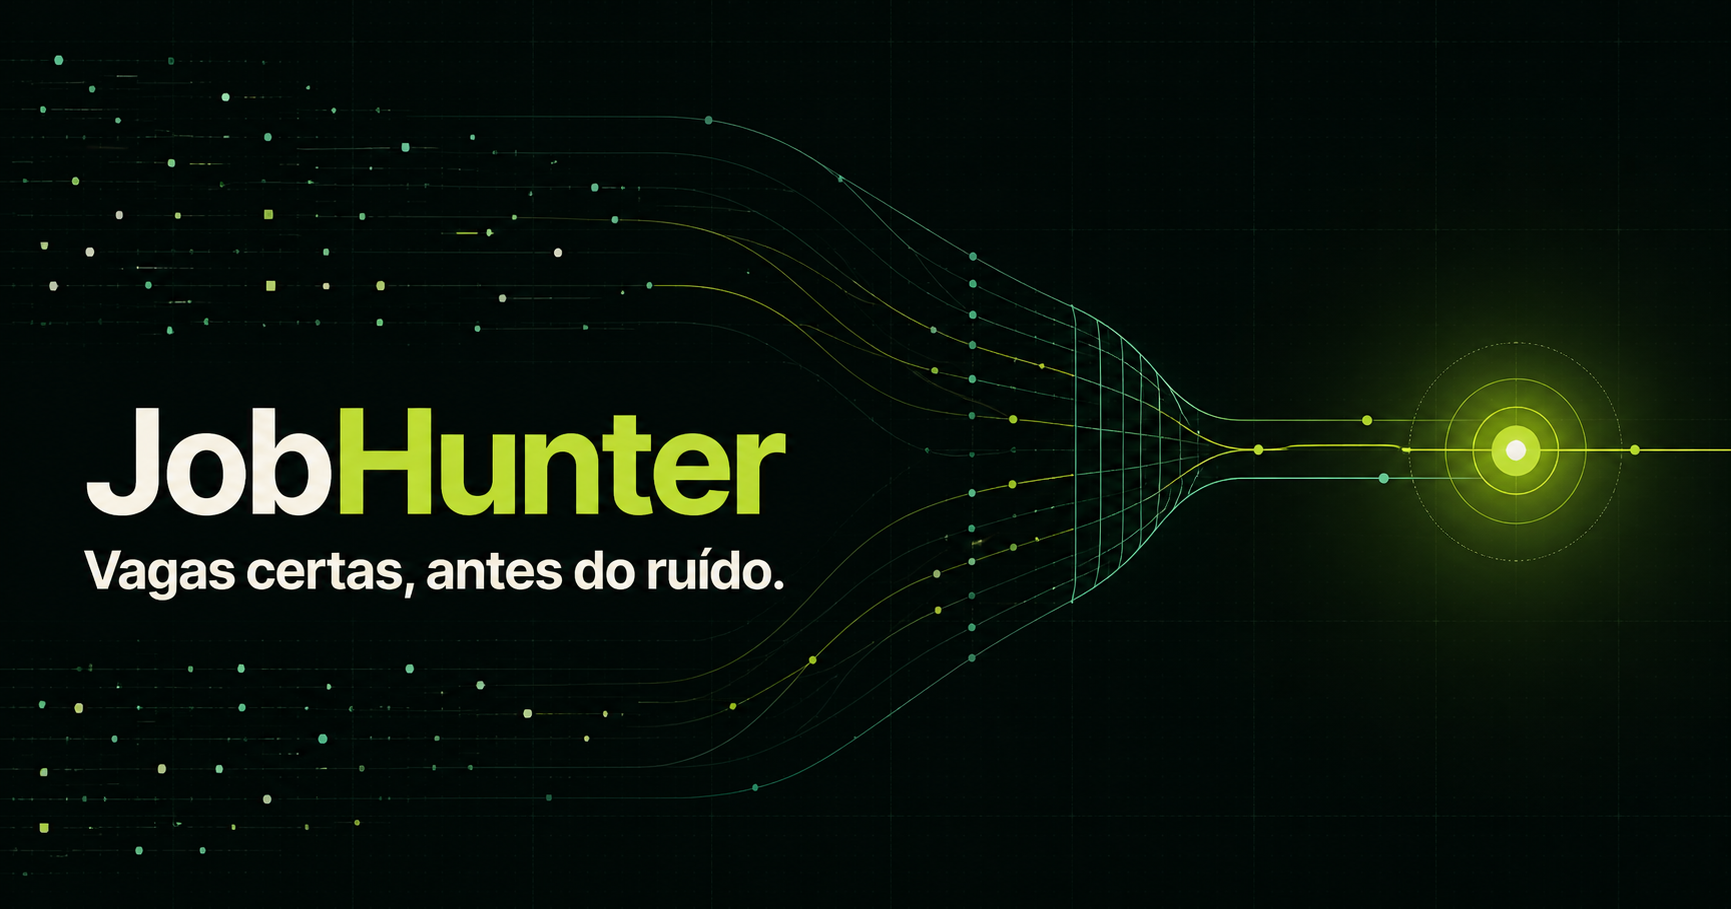
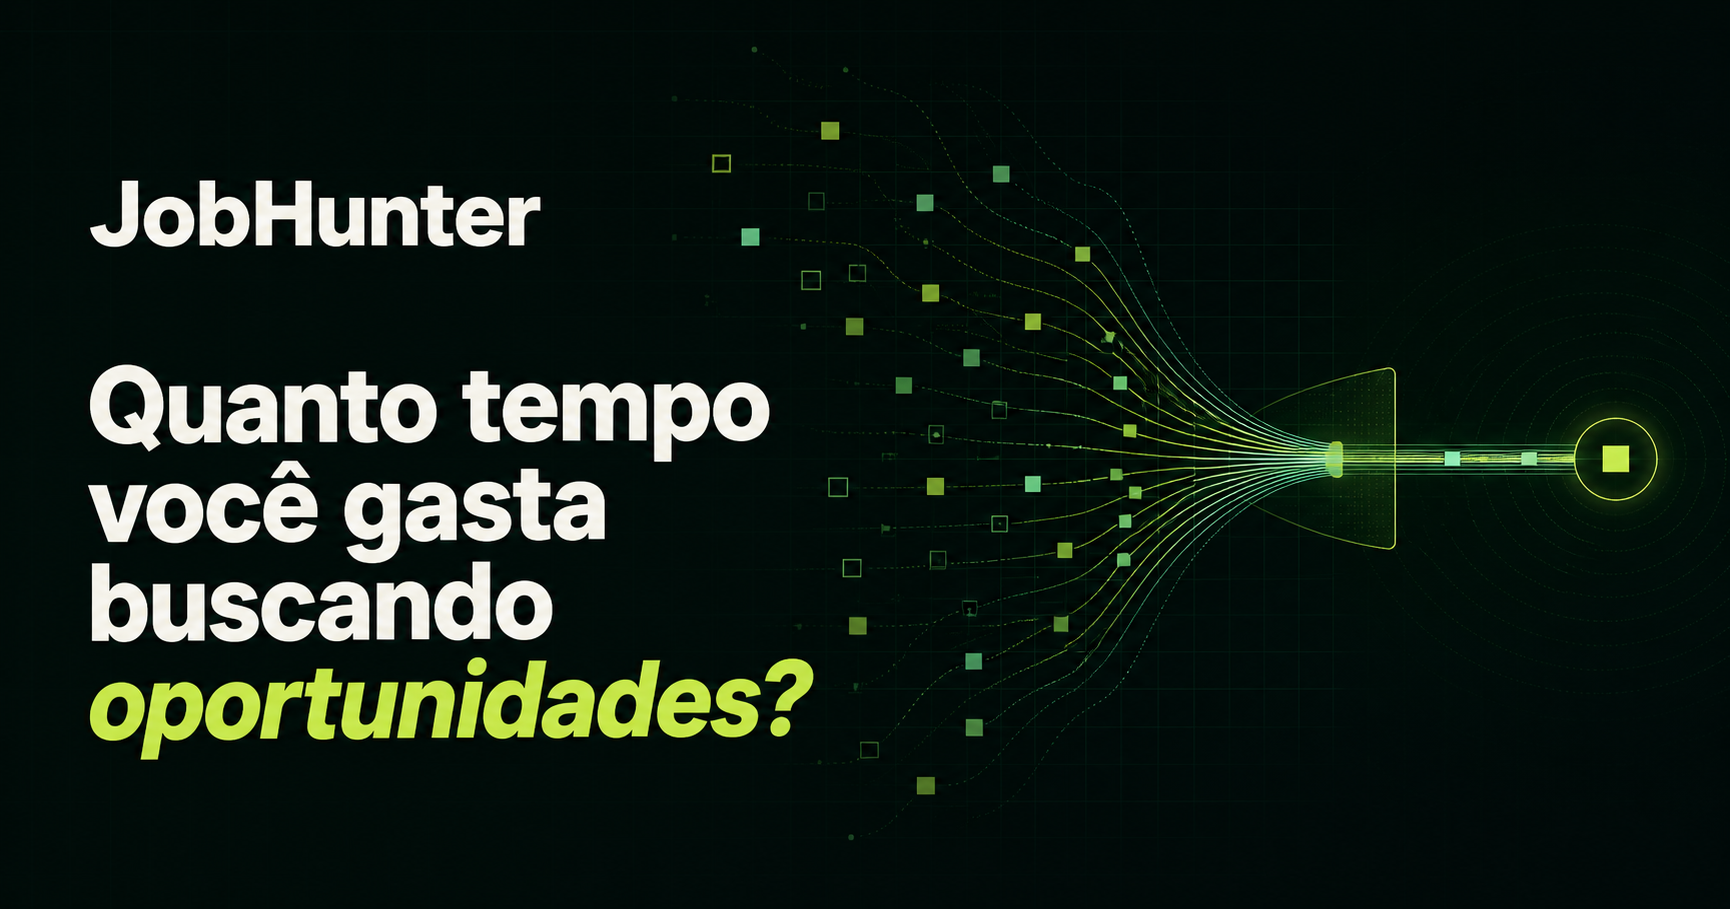
Reframe JobHunter metrics around efficiency

diff --git a/app/page.tsx b/app/page.tsx
@@ -1,11 +1,5 @@
 export default function Home() {
-  const sources = [
-    ["Lever", "249"],
-    ["Greenhouse", "105"],
-    ["Ashby", "78"],
-    ["Universidades", "10"],
-    ["Kaszek", "1"],
-  ];
+  const sources = ["Lever", "Greenhouse", "Ashby", "Universidades", "Kaszek"];
 
   const results = [
     {
@@ -48,11 +42,11 @@ export default function Home() {
 
       <section className="hero" id="top">
         <div className="hero-copy">
-          <div className="eyebrow"><span className="status-dot" /> Execução concluída · 09 ago 2026</div>
-          <h1>Menos ruído.<br /><span>Mais vagas certas.</span></h1>
+          <div className="eyebrow"><span className="status-dot" /> Busca inteligente de oportunidades</div>
+          <h1>Quanto tempo você gasta buscando <em>oportunidades</em>?</h1>
           <p className="hero-lead">
-            Um pipeline inteligente que encontra, limpa e prioriza oportunidades
-            de tecnologia — antes que você perca horas procurando.
+            O JobHunter transforma horas de pesquisa em um fluxo automático que
+            encontra, filtra e prioriza as vagas com maior aderência ao seu perfil.
           </p>
           <div className="hero-actions">
             <a className="button button-primary" href="#vagas">Explorar resultados <span>→</span></a>
@@ -61,32 +55,32 @@ export default function Home() {
           <p className="microcopy">Foco em estágio, júnior e início de carreira · São Paulo e remoto Brasil</p>
         </div>
 
-        <div className="signal-card" aria-label="Resumo da última execução">
+        <div className="signal-card" aria-label="Resumo de eficiência do pipeline">
           <div className="signal-header">
             <div>
-              <span className="overline">ÚLTIMA EXECUÇÃO</span>
-              <strong>Funil de oportunidades</strong>
+              <span className="overline">EFICIÊNCIA DO PIPELINE</span>
+              <strong>Menos esforço, mais relevância</strong>
             </div>
-            <span className="live-pill"><i /> 92,3s</span>
+            <span className="live-pill"><i /> AUTOMATIZADO</span>
           </div>
-          <div className="hero-number"><strong>443</strong><span>vagas coletadas</span></div>
-          <div className="funnel" aria-label="443 coletadas, 350 únicas, 25 aprovadas e 4 novas entregues">
-            <div className="funnel-row"><span>Coletadas</span><div><i style={{ width: "100%" }} /></div><b>443</b></div>
-            <div className="funnel-row"><span>Únicas</span><div><i style={{ width: "79%" }} /></div><b>350</b></div>
-            <div className="funnel-row"><span>Aprovadas</span><div><i style={{ width: "35%" }} /></div><b>25</b></div>
-            <div className="funnel-row highlight"><span>Novas entregues</span><div><i style={{ width: "20%" }} /></div><b>4</b></div>
+          <div className="hero-number"><strong>94,4%</strong><span>do ruído eliminado antes da IA</span></div>
+          <div className="funnel" aria-label="94,4% de pré-filtragem, 79% de vagas únicas, 64% de análises reaproveitadas e 100% de estabilidade">
+            <div className="funnel-row"><span>Pré-filtragem</span><div><i style={{ width: "94.4%" }} /></div><b>94,4%</b></div>
+            <div className="funnel-row"><span>Vagas únicas</span><div><i style={{ width: "79%" }} /></div><b>79%</b></div>
+            <div className="funnel-row"><span>Cache de IA</span><div><i style={{ width: "64%" }} /></div><b>64%</b></div>
+            <div className="funnel-row highlight"><span>Estabilidade</span><div><i style={{ width: "100%" }} /></div><b>100%</b></div>
           </div>
           <div className="signal-footer">
-            <span><b>93</b> duplicadas removidas</span>
-            <span><b>16</b> análises reaproveitadas</span>
+            <span><b>0%</b> de reprocessamento</span>
+            <span><b>100%</b> de foco no perfil</span>
           </div>
         </div>
       </section>
 
       <section className="source-strip" aria-label="Fontes monitoradas">
         <span className="source-label">FONTES MONITORADAS</span>
-        {sources.map(([name, count]) => (
-          <span className="source" key={name}>{name} <b>{count}</b></span>
+        {sources.map((name) => (
+          <span className="source" key={name}>{name}</span>
         ))}
       </section>
 
@@ -111,14 +105,14 @@ export default function Home() {
           <article className="metric-card">
             <span>CONFIABILIDADE DA IA</span>
             <strong>100%</strong>
-            <p>das 9 chamadas concluídas com sucesso na última execução.</p>
+            <p>das análises concluídas sem falhas ou timeouts.</p>
             <small>0 falhas · 0 timeouts</small>
           </article>
           <article className="metric-card">
-            <span>QUALIDADE DO FUNIL</span>
-            <strong>5,6%</strong>
-            <p>chegaram à análise após filtros de senioridade, data e experiência.</p>
-            <small>25 de 443 oportunidades</small>
+            <span>RUÍDO ELIMINADO</span>
+            <strong>94,4%</strong>
+            <p>das oportunidades fora do perfil barradas antes da etapa de IA.</p>
+            <small>Mais precisão, menos processamento</small>
           </article>
         </div>
       </section>
@@ -130,10 +124,10 @@ export default function Home() {
           <p>Quatro etapas, uma entrega limpa e acionável.</p>
         </div>
         <div className="pipeline-grid">
-          <article><span className="step">01</span><h3>Descobre</h3><p>Coleta em paralelo nos principais ATS e portais de tecnologia.</p><b>443 coletadas</b></article>
-          <article><span className="step">02</span><h3>Normaliza</h3><p>Padroniza cargos, localização, senioridade e data de publicação.</p><b>350 únicas</b></article>
-          <article><span className="step">03</span><h3>Prioriza</h3><p>Combina regras, qualidade da fonte e análise semântica por IA.</p><b>25 finalistas</b></article>
-          <article><span className="step">04</span><h3>Entrega</h3><p>Envia apenas vagas novas e relevantes direto para o Telegram.</p><b>4 novos matches</b></article>
+          <article><span className="step">01</span><h3>Descobre</h3><p>Coleta em paralelo nos principais ATS e portais de tecnologia.</p><b>Busca multicanal</b></article>
+          <article><span className="step">02</span><h3>Normaliza</h3><p>Padroniza cargos, localização, senioridade e data de publicação.</p><b>Deduplicação automática</b></article>
+          <article><span className="step">03</span><h3>Prioriza</h3><p>Combina regras, qualidade da fonte e análise semântica por IA.</p><b>Score personalizado</b></article>
+          <article><span className="step">04</span><h3>Entrega</h3><p>Envia apenas vagas novas e relevantes direto para o Telegram.</p><b>Entrega acionável</b></article>
         </div>
       </section>
 
@@ -143,12 +137,12 @@ export default function Home() {
             <span className="kicker">MATCHES EM DESTAQUE</span>
             <h2>Oportunidades que<br />merecem atenção.</h2>
           </div>
-          <div className="threshold"><span>Nota mínima</span><strong>65+</strong></div>
+          <div className="threshold"><span>Aderência mínima</span><strong>65%+</strong></div>
         </div>
         <div className="jobs-list">
           {results.map((job) => (
             <article className="job-card" key={job.title}>
-              <div className="score"><strong>{job.score}</strong><span>/100</span></div>
+              <div className="score"><strong>{job.score}%</strong><span>ADERÊNCIA</span></div>
               <div className="job-main">
                 <span className="match-label">{job.label}</span>
                 <h3>{job.title}</h3>
@@ -159,7 +153,7 @@ export default function Home() {
             </article>
           ))}
         </div>
-        <p className="data-note">Demonstração baseada na estrutura e nas métricas reais da última execução.</p>
+        <p className="data-note">Demonstração baseada na estrutura e nos indicadores reais do JobHunter.</p>
       </section>
 
       <section className="section roi-section">
@@ -173,9 +167,9 @@ export default function Home() {
             </p>
           </div>
           <div className="roi-numbers">
-            <div><span>CHAMADAS EVITADAS</span><strong>16</strong><small>em uma única execução</small></div>
-            <div><span>REPROCESSAMENTO</span><strong>0</strong><small>persistência idempotente</small></div>
-            <div><span>ENTREGAS EM 7 DIAS</span><strong>19</strong><small>notificações recentes</small></div>
+            <div><span>MENOS CHAMADAS DE IA</span><strong>64%</strong><small>cache inteligente</small></div>
+            <div><span>REPROCESSAMENTO</span><strong>0%</strong><small>persistência idempotente</small></div>
+            <div><span>ESTABILIDADE DA ANÁLISE</span><strong>100%</strong><small>sem falhas ou timeouts</small></div>
           </div>
         </div>
       </section>

diff --git a/app/globals.css b/app/globals.css
@@ -32,7 +32,7 @@ nav a:hover { color: var(--white); }
 .eyebrow { color: var(--mint); display: flex; align-items: center; gap: 9px; margin-bottom: 28px; }
 .status-dot { width: 7px; height: 7px; border-radius: 50%; background: var(--mint); box-shadow: 0 0 14px var(--mint); }
 h1 { margin: 0; font-size: clamp(58px, 6.5vw, 92px); line-height: .91; letter-spacing: -.072em; font-weight: 680; }
-h1 span { color: var(--acid); }
+h1 em { color: var(--acid); font-style: italic; font-weight: inherit; }
 .hero-lead { max-width: 610px; margin: 32px 0 0; font-size: 19px; line-height: 1.62; color: #b7c5bf; letter-spacing: -.015em; }
 .hero-actions { display: flex; gap: 12px; margin-top: 38px; }
 .button { min-height: 52px; padding: 0 21px; border-radius: 8px; display: inline-flex; align-items: center; justify-content: center; gap: 28px; font-size: 14px; font-weight: 700; transition: transform .2s, background .2s; }
@@ -52,9 +52,9 @@ h1 span { color: var(--acid); }
 .live-pill i { width: 5px; height: 5px; border-radius: 50%; background: var(--acid); }
 .hero-number { display: flex; align-items: baseline; gap: 12px; margin: 34px 0 29px; position: relative; }
 .hero-number strong { font-size: 66px; line-height: 1; letter-spacing: -.055em; }
-.hero-number span { color: var(--muted); font-size: 13px; }
+.hero-number span { color: var(--muted); font-size: 13px; max-width: 150px; line-height: 1.35; }
 .funnel { display: grid; gap: 14px; position: relative; }
-.funnel-row { display: grid; grid-template-columns: 108px 1fr 34px; align-items: center; gap: 12px; font-size: 12px; color: #8ba098; }
+.funnel-row { display: grid; grid-template-columns: 108px 1fr 46px; align-items: center; gap: 12px; font-size: 12px; color: #8ba098; }
 .funnel-row > div { height: 6px; border-radius: 99px; background: rgba(255,255,255,.06); overflow: hidden; }
 .funnel-row i { display: block; height: 100%; border-radius: inherit; background: #587269; }
 .funnel-row b { color: #cbd8d3; text-align: right; font: 700 12px/1 ui-monospace, monospace; }
